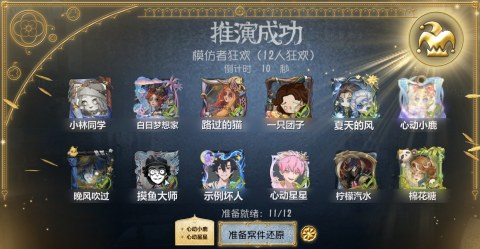
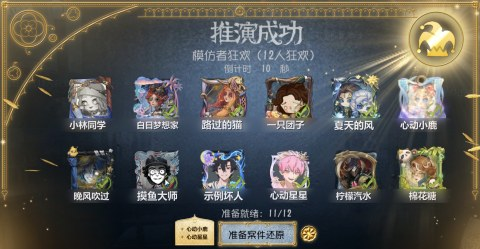
金色传说's 流浪汉 and 愚人 are flat gold silhouettes, with no dark outline and no raised relief.

Changed region(s): [[0.8438, 0.0843, 0.9688, 0.253]]

diff --git a/blacklist_detect/love_scenes/angel.py b/blacklist_detect/love_scenes/angel.py
@@ -614,34 +614,35 @@ def _rose_glass(center: QPointF, radius: float, scale: float, u: float, name: st
     """The round window, per pixel, with a game icon (assets/<name>.png) in gold in its middle, wide
     across. Round it the lobby shows through, as in the window on the left: only a light smoky veil,
     and pale gold light behind the icon, brighter the more polished. On that the icon in a picture of
-    its own, to rise and go: a dark line round it and its shadow under it, and the icon in raised gold
-    lit from the upper left, its seams engraved, polish (0..1) from dull and deep to bright. Also
-    where the gold shines, for the glints that sweep across it."""
+    its own, to rise and go: flat gold, the icon's own shape in one even tone a little lighter toward
+    the top, its seams thin lines a shade deeper, a faint soft shadow under it; polish (0..1) from dull,
+    worn gold to bright. Also where the gold shines, for the glints that sweep across it."""
     rect = QRectF(center.x() - radius, center.y() - radius, 2 * radius, 2 * radius)
     n = max(8, math.ceil(2 * radius * scale))
     ys, xs = np.mgrid[0:n, 0:n].astype(np.float32) + 0.5
     x, y = (xs / n * 2 - 1), (ys / n * 2 - 1)
     rho = np.hypot(x, y)
     px = u * scale
-    cover, seams, deep = _icon(name, n, wide, seam)
+    cover, seams, _deep = _icon(name, n, wide, seam)
     # A light smoky veil, lighter toward the ring, and pale gold light behind the icon.
     behind = np.clip(blur(cover, 14 * px) * (0.9 + 0.4 * polish), 0, 1)
     dark = rgb("#1c1308")
     color = dark + (rgb("#ffe7aa") - dark) * behind[..., None]
     veil = 0.3 * (1 - 0.45 * smooth(0.35, 1.0, rho)) * (1 - behind) + 0.55 * behind
     back = picture(color, (1 - smooth(0.985, 1.0, rho)) * veil)
-    # A dark line round the icon, and its shadow down and to the right.
-    lead = np.clip(blur(cover, max(0.6, 1.1 * px)) * 2.4, 0, 1) * (1 - cover)
-    shadow = _shift(blur(cover, max(0.6, 2.2 * px)), max(1, round(1.8 * px)), max(1, round(1.2 * px))) * (1 - cover)
-    # The gold: each part rising to a rounded ridge along its middle (full height 9 icon pixels in),
-    # bevelled at its edges, its seams cut in and dark; dull gold worn uneven.
-    groove = blur(seams, max(0.5, 0.45 * px))
-    rise = 1 - (1 - np.clip(deep / 9, 0, 1)) ** 2
-    worn = (noise(n, n, 5 * px, 3, 7) - 0.5) * 0.12 * (1 - polish)
-    height = blur(0.75 * rise + 0.25 * cover, max(0.6, 0.8 * px)) - 0.25 * groove + worn
-    gold = _metal(height, 9 * px, polish) * (1 - 0.75 * np.clip(groove * 2, 0, 1))[..., None]
+    # A faint soft shadow under the icon, so the flat gold sits on the veil.
+    shadow = _shift(blur(cover, max(0.6, 2.4 * px)), max(1, round(1.2 * px)), max(1, round(0.8 * px))) * (1 - cover)
+    # The gold: flat, one even tone a little lighter toward the top, dull and worn a little uneven or
+    # bright; its seams thin lines a shade deeper.
+    dull, bright = (rgb("#d9b86e"), rgb("#b4893a")), (rgb("#ffd772"), rgb("#e3a42c"))
+    top = dull[0] + (bright[0] - dull[0]) * polish
+    low = dull[1] + (bright[1] - dull[1]) * polish
+    gold = top + (low - top) * smooth(-0.6, 0.7, y)[..., None]
+    grain = 1 + (noise(n, n, 5 * px, 3, 7) - 0.5) * (0.04 + 0.1 * (1 - polish))
+    groove = np.clip(blur(seams, max(0.5, 0.35 * px)) * 1.6, 0, 1)
+    gold = gold * (grain * (1 - 0.4 * groove))[..., None]
     color = rgb("#120b03") + (gold - rgb("#120b03")) * cover[..., None]
-    figure = picture(color, cover + (1 - cover) * np.clip(0.8 * lead + 0.45 * shadow, 0, 0.9))
+    figure = picture(color, cover + (1 - cover) * np.clip(0.34 * shadow, 0, 0.9))
     shine = picture(np.ones((n, n, 3), dtype=np.float32) * rgb("#fff3cc"), cover * (0.6 + 0.4 * smooth(0.3, 0.9, gold.mean(axis=-1))))
     return rect, back, figure, shine
 
